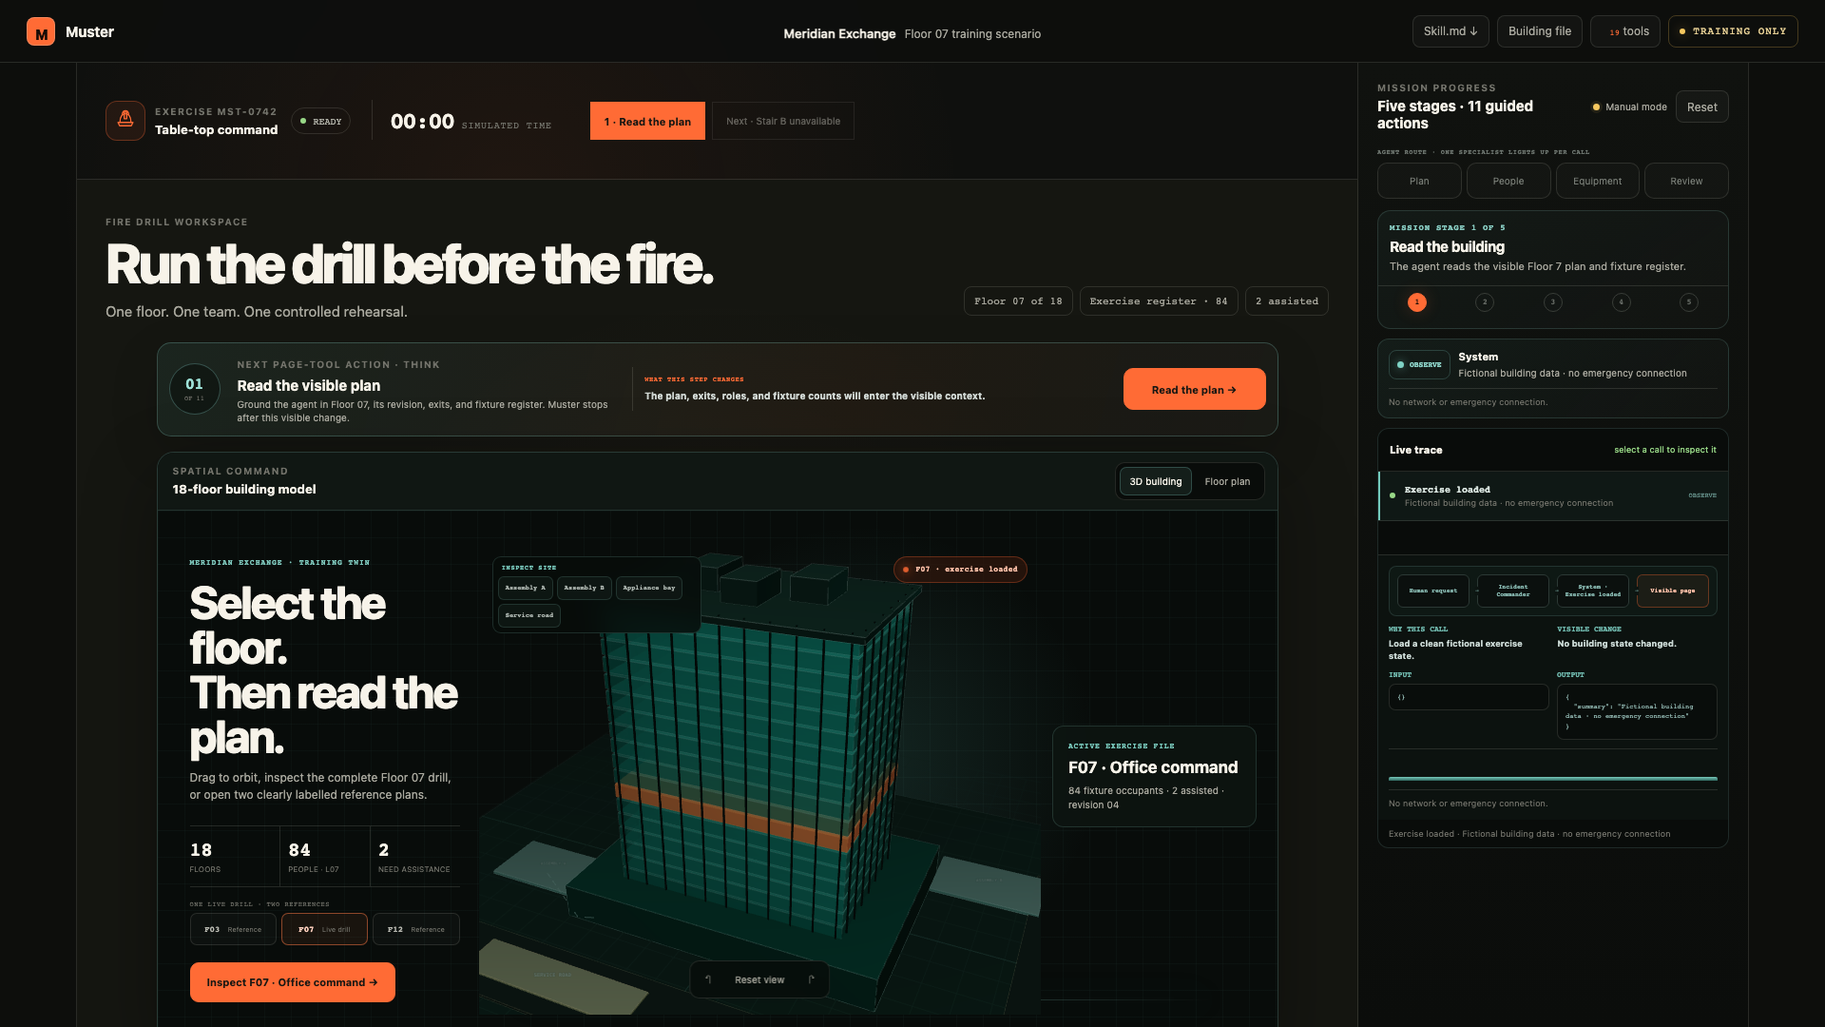
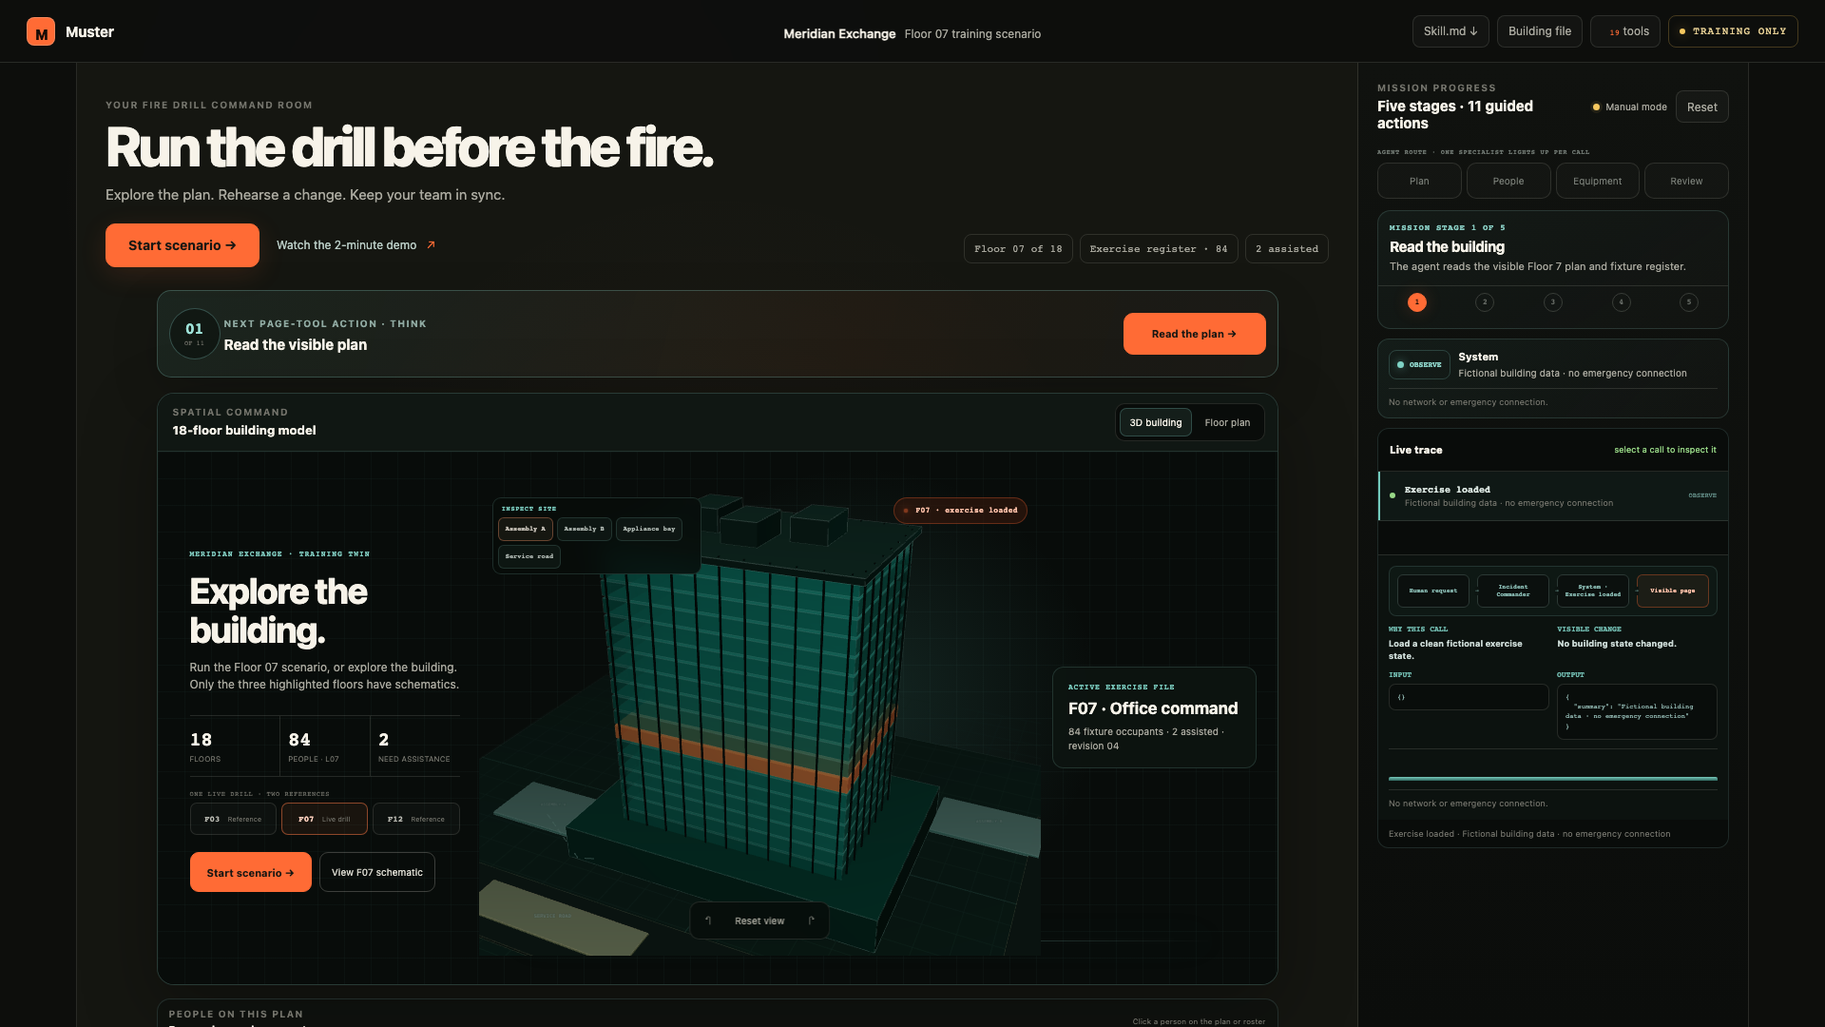
Polish command-room entry and publish final demo evidence

diff --git a/app.js b/app.js
@@ -1300,8 +1300,10 @@ async function runGuidedStep() {
 }
 
 function renderStatus() {
+  document.body.classList.toggle('scenario-unstarted', state.status === 'ready' && !planRead);
   $('#resumeScenarioButton').textContent = state.status === 'ready' ? 'Start scenario →'
     : state.status === 'review' || state.approved ? 'Review scenario →' : 'Resume scenario →';
+  $('#launchScenarioButton').textContent = $('#resumeScenarioButton').textContent;
   const status = $('#statusDot');
   status.className = `status-dot ${state.status}`;
   status.textContent = state.status === 'ready' ? 'Ready' : state.status === 'running' ? 'In exercise' : state.status === 'review' ? 'Review' : 'Complete';
@@ -1484,10 +1486,12 @@ function setupSpatialInteractions() {
   };
   $('#enterFloorButton').addEventListener('click', openFloor);
   let scenarioOpening = false;
+  $('#launchScenarioButton').addEventListener('click', () => $('#resumeScenarioButton').click());
   $('#resumeScenarioButton').addEventListener('click', async () => {
     if (scenarioOpening) return;
     scenarioOpening = true;
     $('#resumeScenarioButton').disabled = true;
+    $('#launchScenarioButton').disabled = true;
     try {
       selectFloor(7, true);
       if (state.status === 'ready') {
@@ -1504,6 +1508,7 @@ function setupSpatialInteractions() {
     } finally {
       scenarioOpening = false;
       $('#resumeScenarioButton').disabled = false;
+      $('#launchScenarioButton').disabled = false;
     }
   });
   $('#floorMode').addEventListener('click', openFloor);

diff --git a/index.html b/index.html
@@ -82,9 +82,13 @@
       <section class="plan-stage" aria-labelledby="planTitle">
         <div class="stage-head">
           <div>
-            <span class="eyebrow">Fire drill workspace</span>
+            <span class="eyebrow">Your fire drill command room</span>
             <h1 id="planTitle">Run the drill before the fire.</h1>
-            <p class="stage-copy">One floor. One team. One controlled rehearsal.</p>
+            <p class="stage-copy">Explore the plan. Rehearse a change. Keep your team in sync.</p>
+            <div class="launch-actions">
+              <button class="primary-button" id="launchScenarioButton" type="button">Start scenario →</button>
+              <a class="demo-link" href="https://youtu.be/BARCGYvzk78" target="_blank" rel="noopener">Watch the 2-minute demo <span aria-hidden="true">↗</span></a>
+            </div>
           </div>
           <div class="plan-meta">
             <span>Floor 07 of 18</span>
@@ -126,7 +130,7 @@
           <div class="building-view" id="buildingView">
             <div class="building-copy">
               <span class="building-kicker">Meridian Exchange · training twin</span>
-              <h2>Select the floor.<br />Then read the plan.</h2>
+              <h2>Explore the building.</h2>
               <p>Run the Floor 07 scenario, or explore the building. Only the three highlighted floors have schematics.</p>
               <div class="building-metrics">
                 <div><strong>18</strong><span>floors</span></div>

diff --git a/styles.css b/styles.css
@@ -1038,3 +1038,20 @@ footer { padding: 13px 28px; background: #090a08; font-size: 10px; }
 @media (prefers-reduced-motion: reduce) {
   .scenario-sequence li.current > i { animation: none; }
 }
+
+/* Final command-room entry: the scenario comes before the instrumentation. */
+.launch-actions { margin-top: 22px; display: flex; align-items: center; gap: 18px; flex-wrap: wrap; }
+.launch-actions .primary-button { min-height: 46px; padding: 0 23px; border-radius: 10px; font-size: 14px; box-shadow: 0 7px 28px rgba(255,107,53,.13); }
+.demo-link { color: #b9ccc5; font-size: 12px; text-decoration: none; }
+.demo-link:hover { color: var(--ink); text-decoration: underline; }
+.demo-link span { margin-left: 7px; color: var(--signal); }
+.scenario-unstarted .scenario-rail { display: none; }
+.scenario-unstarted .guided-brief { padding-top: 12px; padding-bottom: 12px; grid-template-columns: 44px 1fr auto; }
+.scenario-unstarted .guided-change, .scenario-unstarted #guidedDescription { display: none; }
+.scenario-unstarted .guided-copy > .eyebrow { color: #90aaa2; }
+.building-copy h2 { font-size: clamp(28px,2.5vw,38px); line-height: 1.06; letter-spacing: -.035em; }
+@media (max-width: 760px) {
+  .launch-actions { gap: 13px; }
+  .scenario-unstarted .guided-brief { grid-template-columns: 40px 1fr; }
+  .scenario-unstarted .guided-brief .primary-button { grid-column: 1 / -1; }
+}

diff --git a/docs/DEVPOST_SUBMISSION.md b/docs/DEVPOST_SUBMISSION.md
@@ -17,6 +17,7 @@ Tabletop drills often split the plan, occupant register, team roles, scenario no
 - Keeps every tool call in a live trace with its input, result, purpose, visible page change, and boundary.
 - Checks whether each active exercise problem has a recorded owner, then stages an after-action draft for human approval.
 - Includes three loaded plan fixtures. Only the Floor 07 office rehearsal is currently executable; the retail and care-suite plans are reference views.
+- Provides a single Start/Resume scenario action. Exploring a model-only floor never resets the rehearsal: the action returns to Floor 07 and preserves the recorded progress.
 
 ## How it works
 
@@ -26,7 +27,7 @@ A deterministic JavaScript state machine holds the fictional drill state in the 
 
 Without WebMCP, the visible controls still run the rehearsal manually. When `document.modelContext` is available, Muster attempts to register the same 19 contracts so an agent can discover named actions, receive structured results, and make its work visible on the page. This makes the website a shared work surface rather than a chat window beside a disconnected plan.
 
-The proof has two distinct layers. The source contains the registration code, and the test suite verifies one manager plus 18 page tools. Those checks do not prove browser discovery. Separately, a current Chrome 152 capture with WebMCP testing enabled shows all 19 tools discovered through `document.modelContext`; Chrome invoked `read_plan`, then routed `run_drill_manager({"intent":"orient"})` through named plan/register calls. Mission progress and the selected input/output receipt changed on the same page. That is native compatible-browser discovery and execution proof for the tested tab. It is not proof that every judge browser exposes the API.
+The proof has two distinct layers. The source contains the registration code, and the test suite verifies one manager plus 18 page tools. Those checks do not prove browser discovery. Separately, a current Chrome 152 capture with WebMCP testing enabled shows all 19 tools discovered through `document.modelContext`. Chrome invoked `read_plan`, routed the manager's `orient` intent, and then executed the declared fictional rehearsal through native page-tool calls: start, inspect, change one exit, compare, record three confirmed actions, check coverage, and prepare review. The page reached “Ready for human review” and stopped before approval. That is native compatible-browser discovery and consequential execution proof for the tested tab. It is not proof of autonomous planning or that every judge browser exposes the API.
 
 ## Human and agent boundary
 
@@ -38,7 +39,7 @@ All names, people, counts, locations, dimensions, equipment records, timestamps,
 
 The first design exposed many useful controls but left a new user unsure where to begin or what a route change meant. We rebuilt the experience around one step-at-a-time rehearsal, made the building and floor plan directly inspectable, added fictional responder profiles and assistance ownership, and made route state visible in both the 3D twin and plan. We also made each tool contract readable before use and each runtime call inspectable afterward.
 
-The product is static HTML, CSS, and JavaScript with a vendored Three.js runtime and a CSS fallback. The trailer package is driven by an editable manifest. Its local replacement master validates at 132.544 seconds, 1920 by 1080, 30 fps, with 17 contiguous scenes and product proof beginning at 11.5 seconds.
+The product is static HTML, CSS, and JavaScript with a vendored Three.js runtime and a CSS fallback. The demo combines an AI-generated planning-room opening and narration with real app captures, a live page walkthrough, architecture, and inspectable tool receipts.
 
 ## Accomplishments
 
@@ -46,7 +47,7 @@ The product is static HTML, CSS, and JavaScript with a vendored Three.js runtime
 - Kept 19 page-tool contracts visible and aligned with the current source.
 - Passed the current local test suite, including six people-data tests and 500 shuffled workflows covering repeat-safe actions, invalid transitions, route boundaries, and approval gates.
 - Preserved one visible trail from human request to manager, specialist, tool result, page change, and open gap.
-- Produced desktop and mobile evidence captures plus a validated 132.544-second replacement film master.
+- Produced desktop and mobile evidence captures plus a public 2:13 demo with English captions.
 
 ## What we learned
 
@@ -60,39 +61,35 @@ Next, add an agent-driven end-to-end evaluation set for the manager intent route
 
 - **Live demo:** https://muster-fire-drill.vercel.app/
 
-  Verified in production on 4 September 2026. The public `index.html`, `app.js`, and `styles.css` byte-match product source commit `2fa51ebba8b9b7bf813afddbc156433b0c9897ee`. The desktop, 390 by 844 mobile, 18-floor WebGL, Floor 07 route, and human-approved report browser checks pass against this URL.
+  No login required. The desktop and 390 by 844 mobile walkthroughs cover the 18-floor WebGL model, Floor 07 route inspection, visible tool receipts, and human-approved report.
 
 - **Public source:** https://github.com/Arnie016/muster-webmcp
 
-  Verified public. Exact product source commit: https://github.com/Arnie016/muster-webmcp/commit/2fa51ebba8b9b7bf813afddbc156433b0c9897ee
+  Public repository with source, setup instructions, before/after WebMCP scope, and MIT license.
 
 - **WebMCP registration source:** https://github.com/Arnie016/muster-webmcp/blob/2fa51ebba8b9b7bf813afddbc156433b0c9897ee/app.js#L1377-L1393
 - **Tool-count test:** https://github.com/Arnie016/muster-webmcp/blob/2fa51ebba8b9b7bf813afddbc156433b0c9897ee/tests.mjs#L60-L66
-- **Native WebMCP test harness:** https://github.com/Arnie016/muster-webmcp/blob/2fa51ebba8b9b7bf813afddbc156433b0c9897ee/scripts/webmcp-native-smoke.cjs#L49-L93
+- **Native WebMCP test harness:** https://github.com/Arnie016/muster-webmcp/blob/ece50066d5b15be37fc7598aaed5dff9e90ea58b/scripts/webmcp-native-smoke.cjs#L49-L127
 - **Agent-readable project index:** https://muster-fire-drill.vercel.app/llms.txt
 - **Full agent context and boundaries:** https://muster-fire-drill.vercel.app/llms-full.txt
 - **Downloadable operator skill:** https://muster-fire-drill.vercel.app/SKILL.md
 
-- **Current public video:** https://youtu.be/FOoBfOHPIho
+- **Public demo video:** https://youtu.be/BARCGYvzk78
 
-  Verified public. This is the earlier short cut, not the 132.544-second local replacement.
+  2:13, with narration and English subtitles.
 
 - **Devpost project:** https://devpost.com/software/muster-the-agentic-fire-drill
 
-  Exact URL recorded in the accepted-submission receipt. An unauthenticated command-line audit receives HTTP 403, so the public project page is not independently proven from that route.
-
-- **Replacement 132.544-second video:** `[PENDING PUBLIC URL]`
-
-  Local validated master: `trailer/out/muster-demo.mp4`.
+  Existing submitted entry, updated in place.
 
 - **Native WebMCP production evidence:** https://github.com/Arnie016/muster-webmcp/blob/main/docs/screenshots/muster-native-webmcp.png
 
-  The production test launches Chrome 152 with WebMCP testing enabled, discovers 19 tools through `document.modelContext.getTools()`, invokes `read_plan` and the manager's `orient` intent through `document.modelContext.executeTool`, and verifies that mission progress plus the same visible page trace changed. This proves the tested Chrome tab, not every browser or ChatGPT surface.
+  The production test launches Chrome 152 with WebMCP testing enabled, discovers 19 tools through `document.modelContext.getTools()`, and runs the declared fictional rehearsal through `document.modelContext.executeTool`. It verifies the manager route, named page calls, mission completion, staged report, visible receipts, and untouched human approval control. This proves the tested Chrome tab and deterministic fixture sequence, not autonomous planning, every browser, or every ChatGPT surface.
 
 ## 30-second judge path
 
-1. Open the live demo and click **Inspect Floor 07**.
-2. In the Incident Commander dock, click **Run demo**.
+1. Open the live demo and click **Start scenario** (or **Resume scenario** if you have already started).
+2. In the Incident Commander dock, use the next guided action, or choose **Run demo** to open the guided sequence.
 3. Watch the authored signal appear, Stair B become unavailable, and the missing assistance owner become explicit.
 4. Open a **Live trace** row to inspect why the tool ran and what changed on the page.
 5. Find the staged after-action draft and the separate human approval control. Treat every person and count shown as fictional training data.

diff --git a/README.md b/README.md
@@ -4,11 +4,15 @@ Muster is a WebMCP-enabled tabletop fire-drill command room for building Fire Sa
 
 **Live demo:** https://muster-fire-drill.vercel.app
 
+**2-minute demo:** https://youtu.be/BARCGYvzk78 · **Submitted project:** https://devpost.com/software/muster-the-agentic-fire-drill
+
 **Agent context:** [llms.txt](https://muster-fire-drill.vercel.app/llms.txt) · [llms-full.txt](https://muster-fire-drill.vercel.app/llms-full.txt) · [operator skill](https://muster-fire-drill.vercel.app/SKILL.md)
 
 ![Muster spatial command room](docs/screenshots/muster-spatial-command.png)
 
 The interface makes the next action explicit:
+
+Click **Start scenario** at the top to open Floor 07 and introduce the first fictional signal. The same action becomes **Resume scenario** once started, and **Review scenario** when a draft is ready. Exploring other floors preserves progress. Only Floors 03, 07, and 12 contain schematics; only Floor 07 runs the rehearsal.
 
 1. Read the plan and roster.
 2. Start a fictional smoke scenario.
@@ -74,19 +78,19 @@ npm run serve
 
 Open `http://localhost:4179` in ChatGPT's in-app browser or a WebMCP-enabled Chrome build. The visible controls also provide a manual rehearsal when WebMCP is unavailable.
 
-`npm test` includes 500 shuffled workflows that check idempotency, route-sketch boundaries, invalid transitions, human approval gates, fictional-person referential integrity, and the no-external-effects boundary. `npm run test:browser` exercises the 18-floor model, the complete Floor 07 drill plus two reference-plan views, guided rehearsal, persistent route receipt, inspectable tool and person details, report approval, and 390×844 mobile layout when Playwright is available. `npm run test:webmcp` launches Chrome with WebMCP testing enabled, discovers all 19 native `document.modelContext` tools, executes `read_plan`, then executes `run_drill_manager` with the `orient` intent and verifies that named subcalls, mission progress, and the detailed visible receipt update together.
+`npm test` includes 500 shuffled workflows that check idempotency, route-sketch boundaries, invalid transitions, human approval gates, fictional-person referential integrity, and the no-external-effects boundary. `npm run test:browser` exercises the 18-floor model, the complete Floor 07 drill plus two reference-plan views, guided rehearsal, persistent route receipt, inspectable tool and person details, report approval, and 390×844 mobile layout when Playwright is available. `npm run test:webmcp` launches Chrome with WebMCP testing enabled, discovers all 19 native `document.modelContext` tools, executes `read_plan` and the manager's `orient` intent, then completes the declared rehearsal through native page-tool calls. It verifies the report is ready for human review and that approval remains untouched.
 
 ## What existed before
 
 The design and code in this directory were created for the WebMCP workflow. Earlier projects in the wider workspace explored an ocean education Site and a filmmaking review relay; neither contained this fire-drill product, data model, floor plan, or tool contract.
 
-## What WebMCP adds
+## What we added for WebMCP
 
 Without WebMCP, a facilitator clicks through the exercise manually. With WebMCP, an agent can read the selected plan, operate the controlled timeline, preserve structured team actions, check responsibility coverage, and stage the report while the human remains responsible for facilitation and approval.
 
 ## Evidence boundary
 
-This MVP is publicly deployed. Local verification proves the deterministic page workflow, interactive building and floor-plan controls, manager routing, visible call inspector, and native WebMCP registration and execution in Chrome 152 with testing enabled. The displayed count of 84 is a fictional exercise register, not live occupancy. The native test proves only that this page registered 19 tools and that Chrome executed `read_plan` plus one `run_drill_manager({"intent":"orient"})` request against the same visible tab. It does not prove ChatGPT-specific behavior, real fire-team adoption, regulatory compliance, multiplayer collaboration, or integration with emergency services.
+This MVP is publicly deployed. Local verification proves the deterministic page workflow, interactive building and floor-plan controls, manager routing, visible call inspector, and native WebMCP registration and execution in Chrome 152 with testing enabled. The displayed count of 84 is a fictional exercise register, not live occupancy. The native test proves only that this page registered 19 tools and that Chrome executed the declared fictional rehearsal against the same visible tab, including manager routing and report staging. It stopped before the separate human approval control. It does not prove ChatGPT-specific behavior, autonomous planning, real fire-team adoption, regulatory compliance, multiplayer collaboration, or integration with emergency services.
 
 ## References
 

diff --git a/docs/FINAL_UPLOAD_AND_SUBMISSION.md b/docs/FINAL_UPLOAD_AND_SUBMISSION.md
@@ -20,7 +20,7 @@ Agent operator skill: https://muster-fire-drill.vercel.app/SKILL.md
 
 Devpost: https://devpost.com/software/muster-the-agentic-fire-drill
 
-Muster exposes one manager and 18 bounded page tools through WebMCP. In the tested Chrome 152 tab, `document.modelContext` discovered all 19 tools, executed `read_plan`, then routed the manager's `orient` intent through named page tools. Mission progress and the selected input/output receipt updated on the same page. The product also works as a guided manual rehearsal when WebMCP is unavailable.
+Muster exposes one manager and 18 bounded page tools through WebMCP. In the tested Chrome 152 tab, `document.modelContext` discovered all 19 tools and executed the declared fictional rehearsal on the same page. The manager routed named calls, mission progress advanced, the review draft was staged, and the separate human approval control remained untouched. The product also works as a guided manual rehearsal when WebMCP is unavailable.
 
 00:00 Why rehearsal matters
 00:12 One shared command room
@@ -56,14 +56,16 @@ WebMCP, OpenAI, agentic AI, fire drill, emergency preparedness, human AI collabo
 - Duration: 132.544 seconds
 - Picture: H.264, 1920 by 1080, 30 fps
 - Audio: AAC, 48 kHz stereo; measured integrated loudness -16.1 LUFS and true peak -4.5 dBTP
[2 lines of base64/hex data omitted]
+- Published replacement: https://youtu.be/BARCGYvzk78
+- YouTube Studio publication receipt verified 4 September 2026. Public, 2:13, AIGonezWild, English (United Kingdom) captions, custom thumbnail, AI-use disclosure, Science & Technology category. Copyright check: no issues found at publication.
 - Local speech-to-text check begins with the emergency problem, contains the complete product story and safety boundary, and contains no generator preamble or sign-off.
 
 ## Devpost update
 
 Use the complete humanized project narrative in `docs/DEVPOST_SUBMISSION.md`.
 
-Before saving, replace the old YouTube URL with the new public video URL. Keep these links unchanged:
+The existing entry was updated and re-submitted through the official Devpost connector on 4 September 2026 with https://youtu.be/BARCGYvzk78. Live readback confirmed project state `published`, the new video URL, and the WebMCP entry still submitted. Submission ID: `1169160`. No duplicate project was created. Keep these links unchanged:
 
 - Live demo: https://muster-fire-drill.vercel.app/
 - Public repository: https://github.com/Arnie016/muster-webmcp
@@ -72,8 +74,8 @@ Before saving, replace the old YouTube URL with the new public video URL. Keep t
 
 The strongest judge path is:
 
-1. Click **Inspect Floor 07**.
-2. Click **Run demo** in the Incident Commander dock.
+1. Click **Start scenario** (or **Resume scenario** on a returning visit).
+2. Use the next guided action to advance one visible change at a time.
 3. Watch Stair B become unavailable, inspect the route receipt, and see the missing assistance owner become explicit.
 4. Open one Live trace row to inspect the request, delegation, input, result, visible change, duration, and guardrail.
 5. Review the staged after-action draft and the separate human approval control.

diff --git a/index.md b/index.md
@@ -22,7 +22,7 @@ The app combines an orbitable 18-floor WebGL twin, a pan-and-zoom response plan,
 
 Muster exposes one manager and 18 bounded page tools through WebMCP. The agent operates the same page the facilitator sees. Each call leaves a receipt containing its input, result, purpose, visible consequence, timing, and guardrail. The agent may stage a report, but only the human can approve it.
 
-In the tested production Chrome tab, the native WebMCP API discovered all 19 tools, executed `read_plan`, then routed `run_drill_manager({"intent":"orient"})` through named page tools. Mission progress and the detailed visible receipt updated on the same page. A normal browser can run the same controlled workflow manually.
+In the tested production Chrome tab, the native WebMCP API discovered all 19 tools and executed the declared fictional rehearsal on the same page. It routed manager and specialist calls, advanced mission progress, staged the report, and stopped before the separate human approval control. A normal browser can run the same controlled workflow manually.
 
 ## Evidence boundary
 
